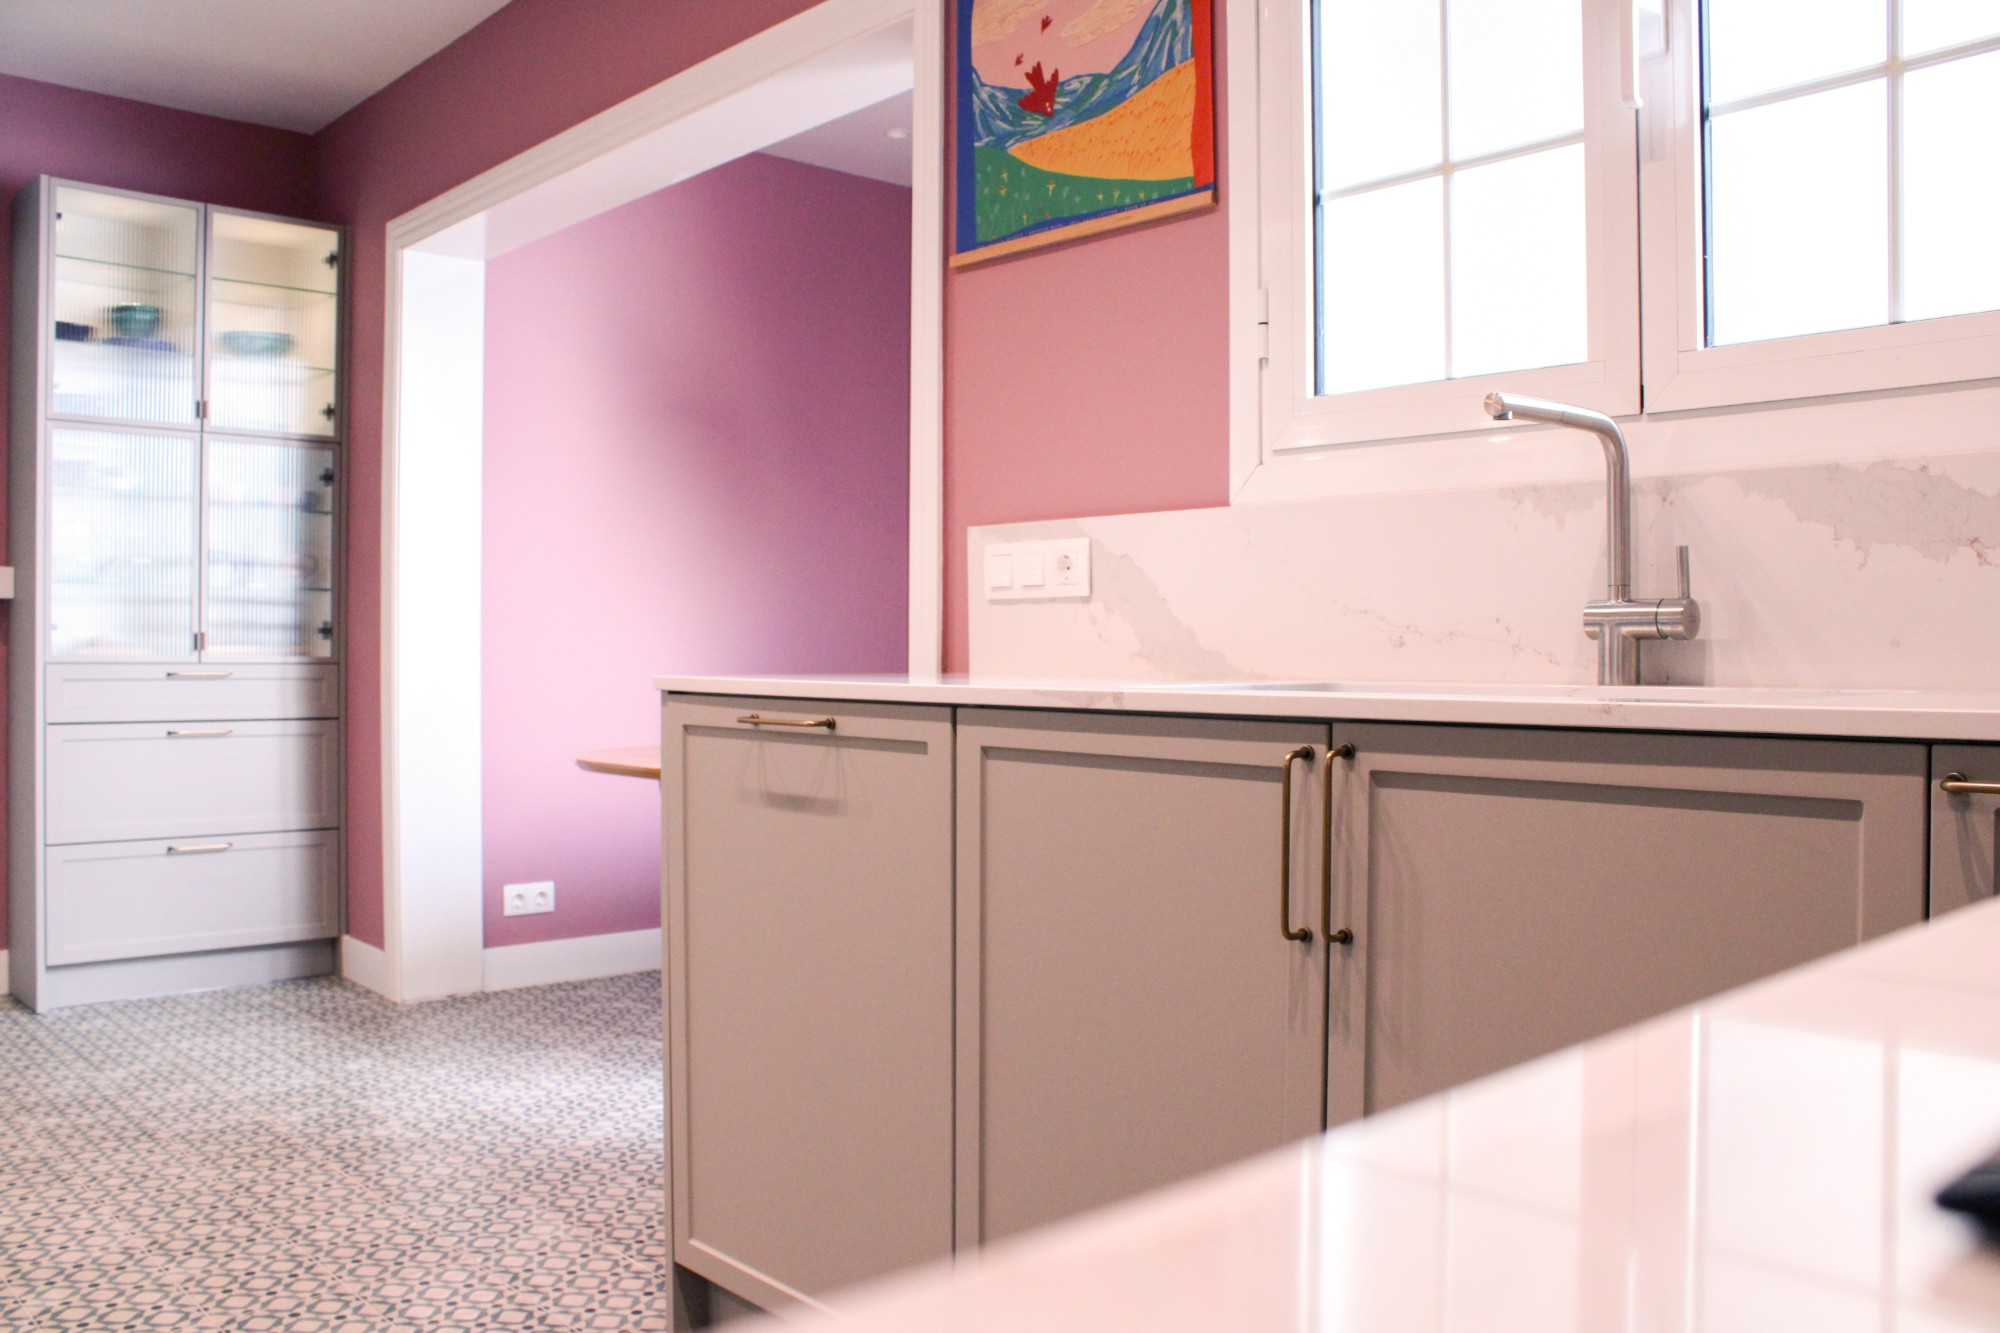
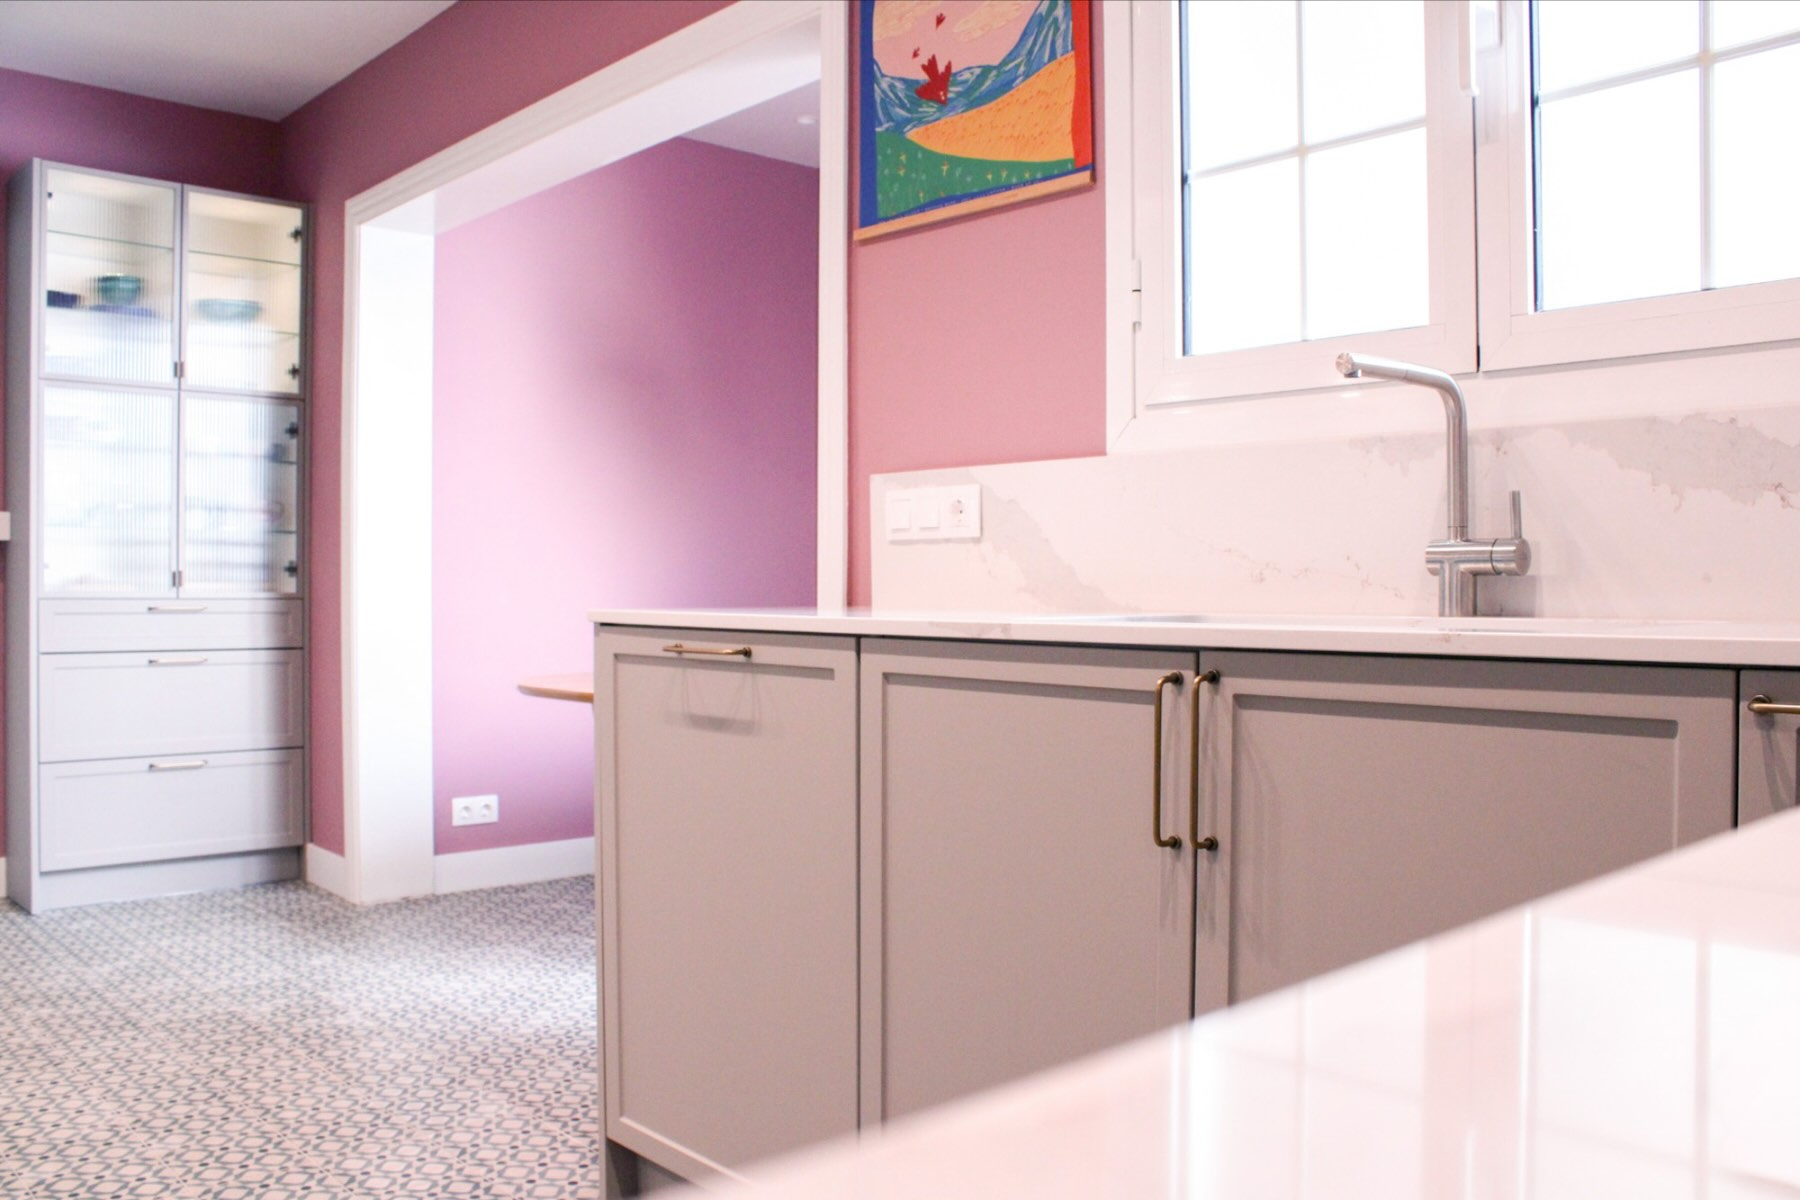
Rose & Quartz: Monica's retouched photos from Drive

diff --git a/src/imageSizes.ts b/src/imageSizes.ts
@@ -221,40 +221,40 @@ export const imageSizes: Record<string, [number, number]> = {
 1800
 ],
 "/images/gallery/sarria-01_kitchen.jpg": [
-1322,
-2000
+1190,
+1800
 ],
 "/images/gallery/sarria-02_hob-and-oven-column.jpg": [
-1333,
-2000
+1200,
+1800
 ],
 "/images/gallery/sarria-03_sink-and-window.jpg": [
-2000,
-1352
+1800,
+1217
 ],
 "/images/gallery/sarria-04_sink-and-breakfast-nook.jpg": [
-2000,
-1333
+1800,
+1200
 ],
 "/images/gallery/sarria-05_glazed-dresser-and-arch.jpg": [
-1396,
-2000
+1257,
+1800
 ],
 "/images/gallery/sarria-06_reeded-glass.jpg": [
-1500,
-2000
+1350,
+1800
 ],
 "/images/gallery/sarria-07_drawers-and-tiles.jpg": [
-1500,
-2000
+1350,
+1800
 ],
 "/images/gallery/sarria-08_brass-handle.jpg": [
-1333,
-2000
+1200,
+1800
 ],
 "/images/gallery/sarria-09_floor-tiles.jpg": [
-2000,
-1289
+1800,
+1161
 ],
 "/images/gallery/solar-01_roof-and-sea-view.jpg": [
 1600,
